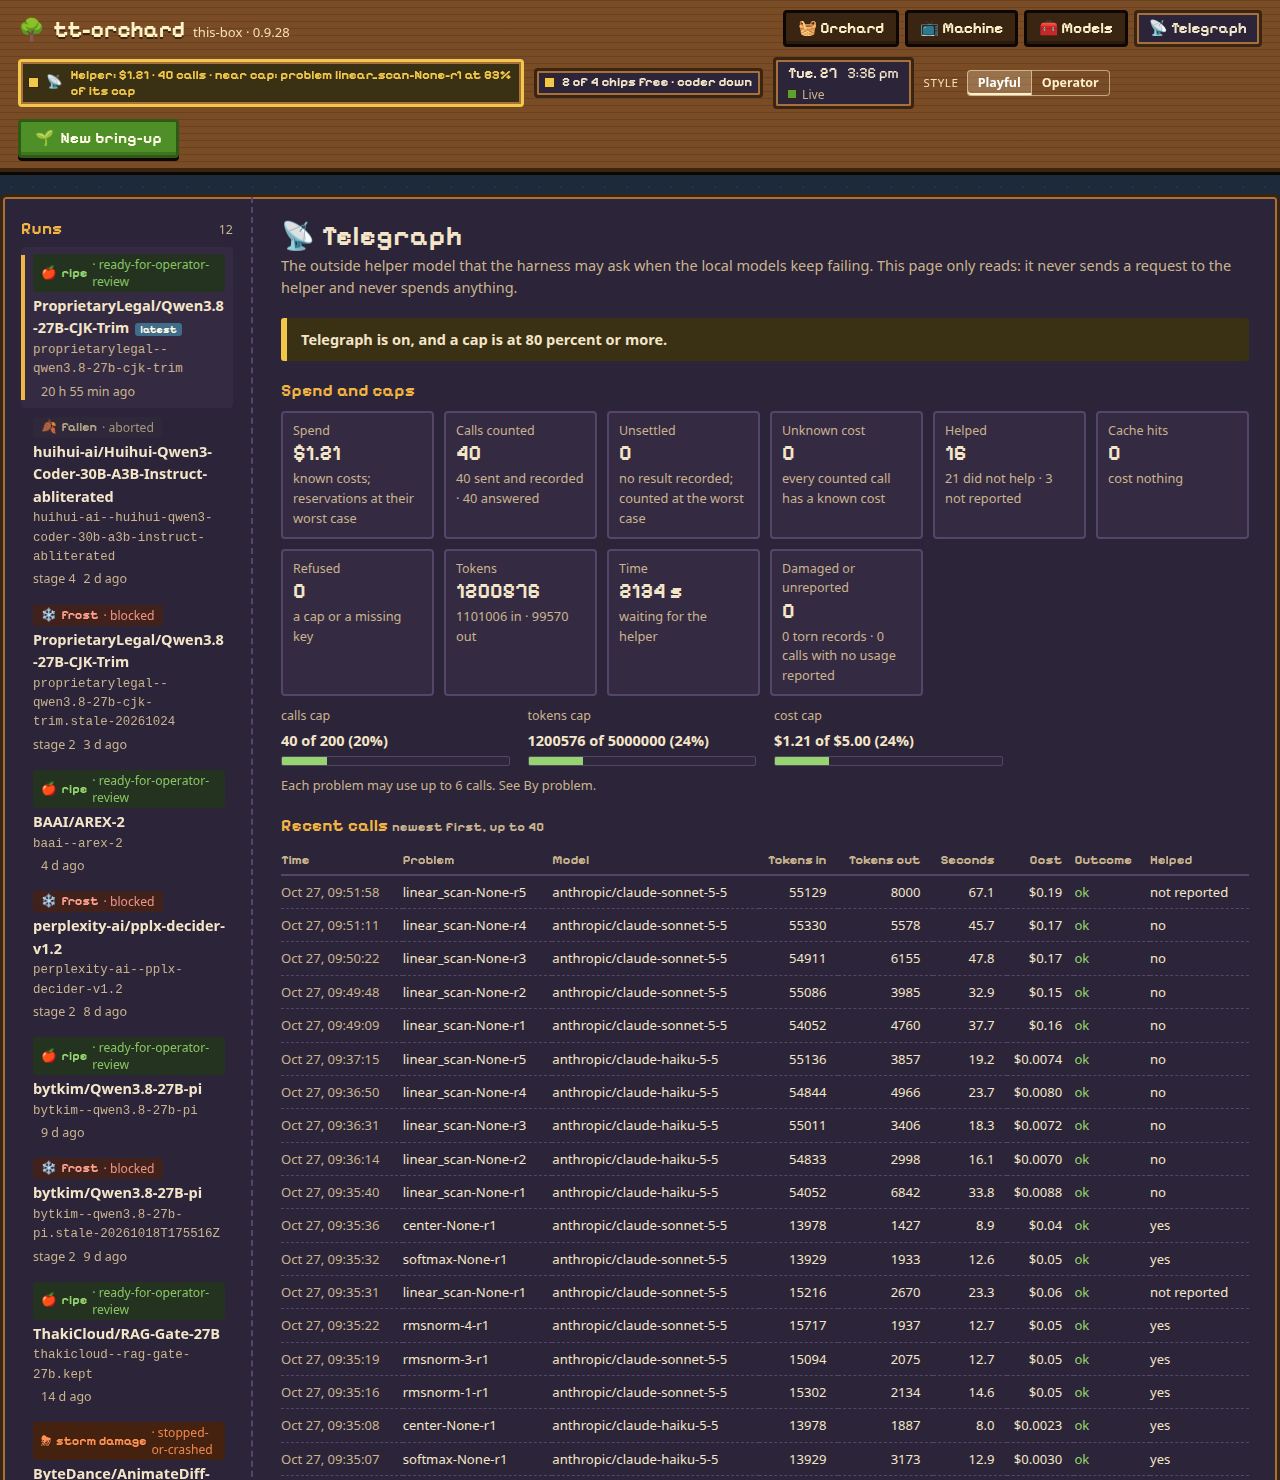
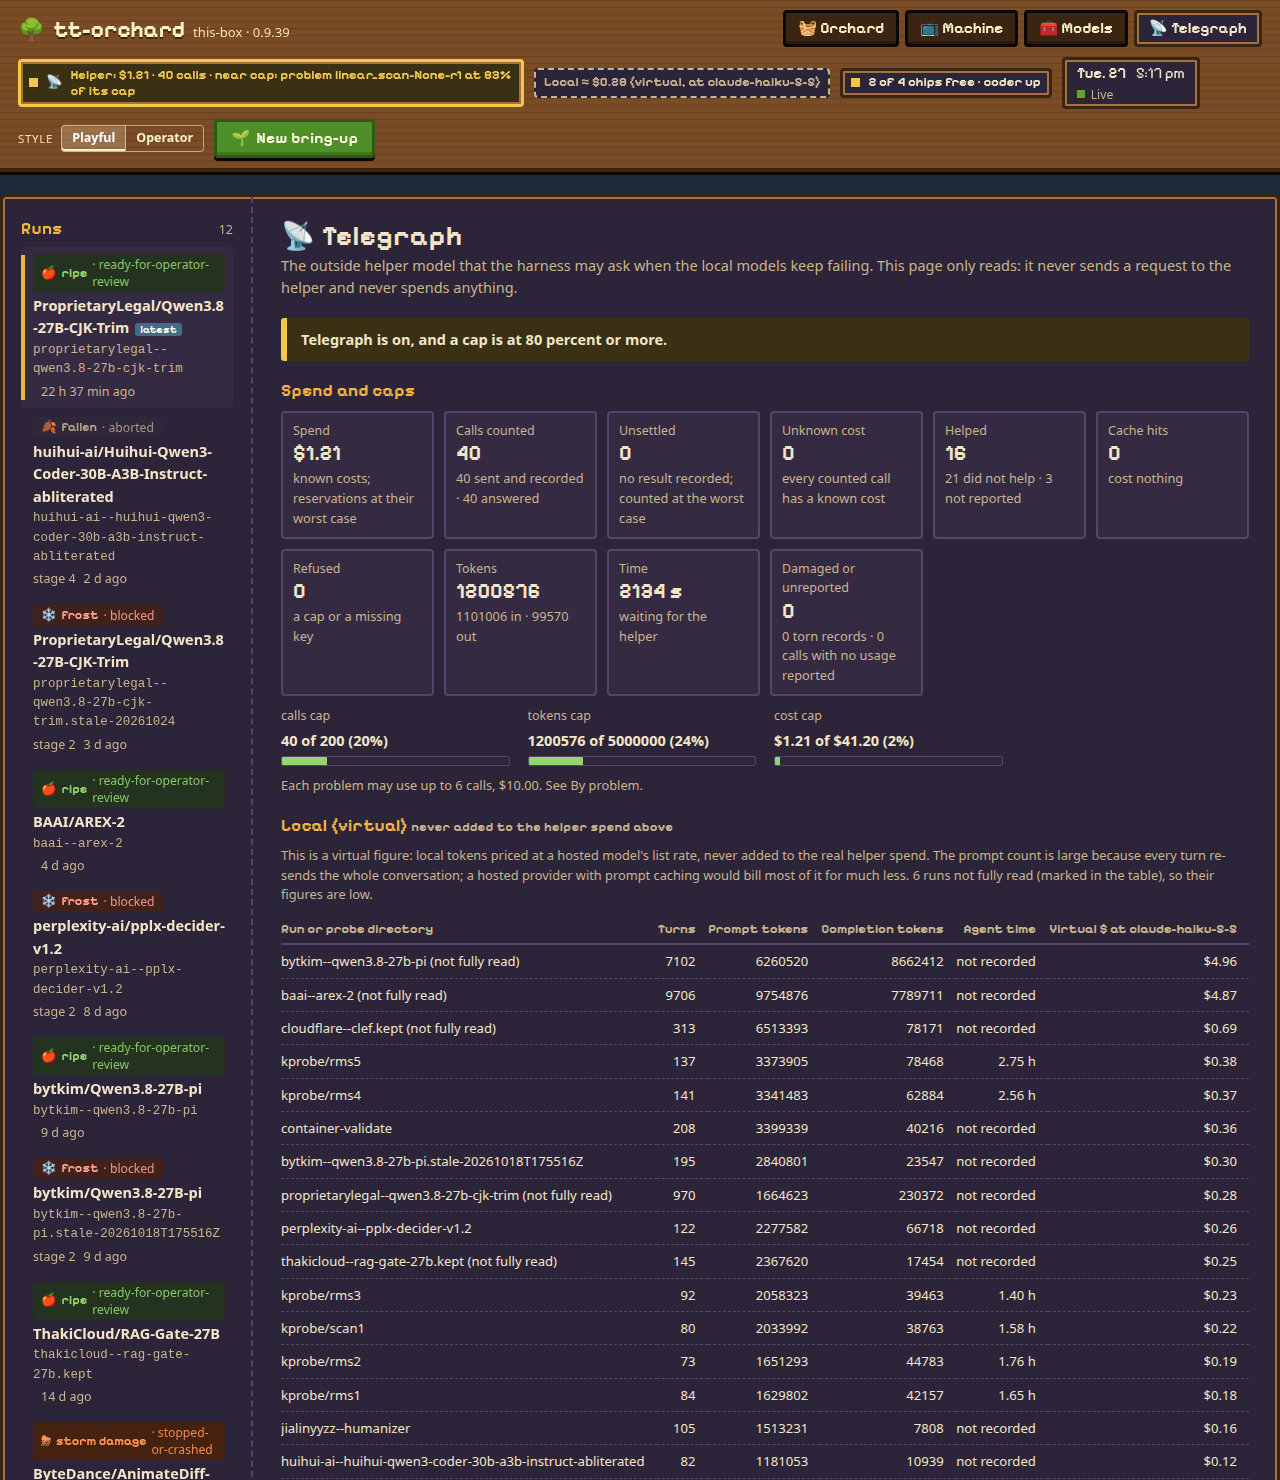
docs: Telegraph screenshots with the virtual local spend beside the helper spend

diff --git a/site/index.html b/site/index.html
@@ -457,7 +457,7 @@
   const CAP = {
     running: "A run in progress, taken while a real validation run was in stage 2: the coder model is parked while a test uses its boards. The page says what is happening now and what, if anything, to do next, and sets each result against what it should be.",
     finished: "A finished run: each stage with its wall time. Stages 3, 5 and 6 are skipped by design on a weights-only model.",
-    telegraph: "The Telegraph view, reading the ledger of 40 real helper calls made while testing which outside model fixes a failing kernel fastest ($1.21 in all). The page only reads the ledger and spends nothing. The meter is amber because one problem has used 5 of the 6 calls the configuration allows it. The configuration shown is a placeholder: an example host and a dummy key variable.",
+    telegraph: "The Telegraph view. The top bar and the Local (virtual) block put the two figures side by side: the real helper spend ($1.21 over 40 real helper calls made while testing which outside model fixes a failing kernel fastest) and the virtual spend of the local models (about $14.10 for 19,720 local agent turns, priced at a hosted model's list rate and never added to the real figure; six runs are only partly read, so it is low). The page only reads the ledger and the logs and spends nothing. The meter is amber because one problem has used 5 of the 6 calls the configuration allows it. The configuration shown is a placeholder: an example host and a dummy key variable.",
     blocked: "A blocked run: the reason, what was tried, and a verdict line that sets the numbers against what they should be. This one found a reference check that failed while the agent's file said it passed.",
   };
   const shot = { k: "running", m: "operator" };

diff --git a/README.md b/README.md
@@ -584,9 +584,12 @@ the research setting are under **Options**, and the line says what they are now.
 ![New bring-up: the model field, the closed Options line, Run checks as the main button](docs/ui/operator-new-bringup.png)
 
 The Telegraph view (section 5.9g) shows what the outside helper has cost: spend against each cap, every call, and the totals by model
-and by problem. This one reads the ledger of 40 real helper calls made while comparing outside models on failing kernels ($1.21 in all).
-The meter is amber because one problem has used 5 of the 6 calls the configuration allows it. The configuration is a placeholder with an
-example host and a dummy key variable. The page only reads the ledger, so nothing was sent or spent for the picture.
+and by problem. Under the caps, a "Local (virtual)" block prices the tokens the local models used in the run folders at a hosted model's
+list rate, and the top bar shows the two figures side by side ("Helper" is real money, "Local" is virtual and is never added to it).
+This one reads the ledger of 40 real helper calls ($1.21 in all) and 19,720 local agent turns across 21 run and probe directories
+(about $14.10 at the Haiku 5.5 list rate; six runs are marked "not fully read", so their figures are low). The meter is amber because one
+problem has used 5 of the 6 calls the configuration allows it. The configuration is a placeholder with an example host and a dummy key
+variable. The page only reads the ledger and the logs, so nothing was sent or spent for the picture.
 
 ![Operator style, the Telegraph view: spend and caps, recent calls, totals by model and by problem](docs/ui/operator-telegraph.png)
 

diff --git a/docs/project-log.md b/docs/project-log.md
@@ -2697,3 +2697,6 @@ Prompt (operator decision): relax the audio class rule for sampler-only differen
 - Result on the real pair: class weights-only, path weights-only, alternative path full-port, confidence medium, two serving differences and a hazard that says the sampler settings need a check. Nothing in this change ran on a chip.
 - Tests: 142 in `tests/test_audio_class_inference.py`; a mutation for each guard with no survivors after fixes.
 - Stacked on PR 142's area of `delta_triage.py`: the two branches both edit the audio branch of the template, so the second to merge needs a conflict resolution there.
+
+## 2026-10-28 (UTC): the Telegraph screenshots show the virtual local spend beside the real helper spend
+Prompt (operator): after PR 115 merged, "might be helpful to show that side by side". The pictures in the README and on the site were retaken from `main` with the virtual-spend block: the top bar shows "Helper: $1.21 · 40 calls" and "Local ≈ $14.10 (virtual, at claude-haiku-5-5)", and a "Local (virtual)" table lists each run or probe directory's turns, tokens, agent time and virtual cost. The figures come from the real ledger (40 calls) and the real run folders (19,720 local turns in 21 directories; six runs are only partly read, so the figure is low). The screenshot configuration is a placeholder with the real caps ($41.20, $10 and 6 calls per problem), an example host and a dummy key variable. A slip while doing it: the first screenshot used a placeholder cap of $5, which did not match the real one, so it was retaken. No version bump: this is pictures and text only.
